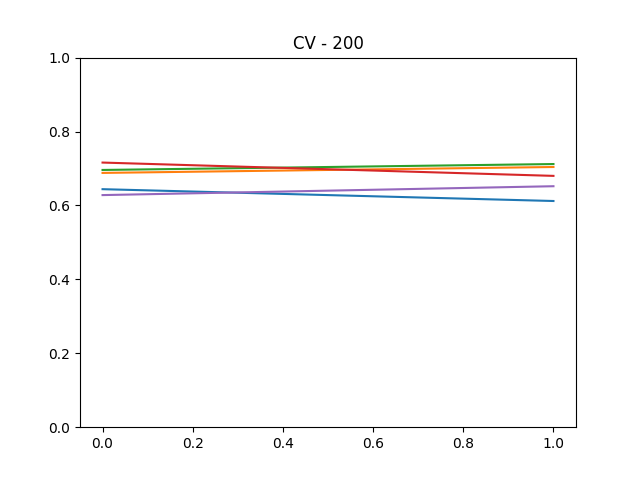
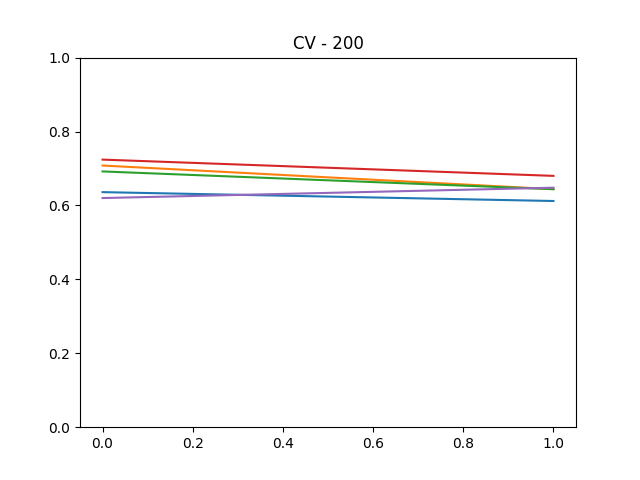
Norm.

Changed region(s): [[0.1562, 0.3125, 0.875, 0.4375]]

diff --git a/feature_extractor.py b/feature_extractor.py
@@ -4,7 +4,7 @@ Extracting features using count vectorizer
 import pandas as pd
 import numpy as np
 from sklearn.feature_extraction.text import CountVectorizer
-from sklearn.feature_extraction.text import TfidfTransformer
+from sklearn.preprocessing import StandardScaler
 
 n_features = 1000
 crop = 0
@@ -37,6 +37,12 @@ X_contents_cv = vectorizer.fit_transform(contents)
 
 X_titles = X_titles_cv.toarray()
 X_contents = X_contents_cv.toarray()
+
+scaler_a = StandardScaler().fit(X_titles)
+scaler_b = StandardScaler().fit(X_contents)
+
+X_titles = scaler_a.transform(X_titles)
+X_contents = scaler_a.transform(X_contents)
 
 print(np.max(X_titles, axis=0), X_titles.shape)
 print(np.max(X_contents, axis=0), X_contents.shape)

diff --git a/stream-experiment.py b/stream-experiment.py
@@ -64,7 +64,7 @@ used_features = [2, 10, 50, 100, 200, 500]
 
 for n_components in used_features:
     # PCA
-    stream = StreamFromFile("data/cv.npz", n_components=10, n_chunks=3, use_PCA=True)
+    stream = StreamFromFile("data/cv.npz", n_components=10, n_chunks=10, use_PCA=True)
     clfs = [
         sl.ensembles.SEA(GaussianNB(), n_estimators=5),
         sl.ensembles.SEA(KNeighborsClassifier(), n_estimators=5),
